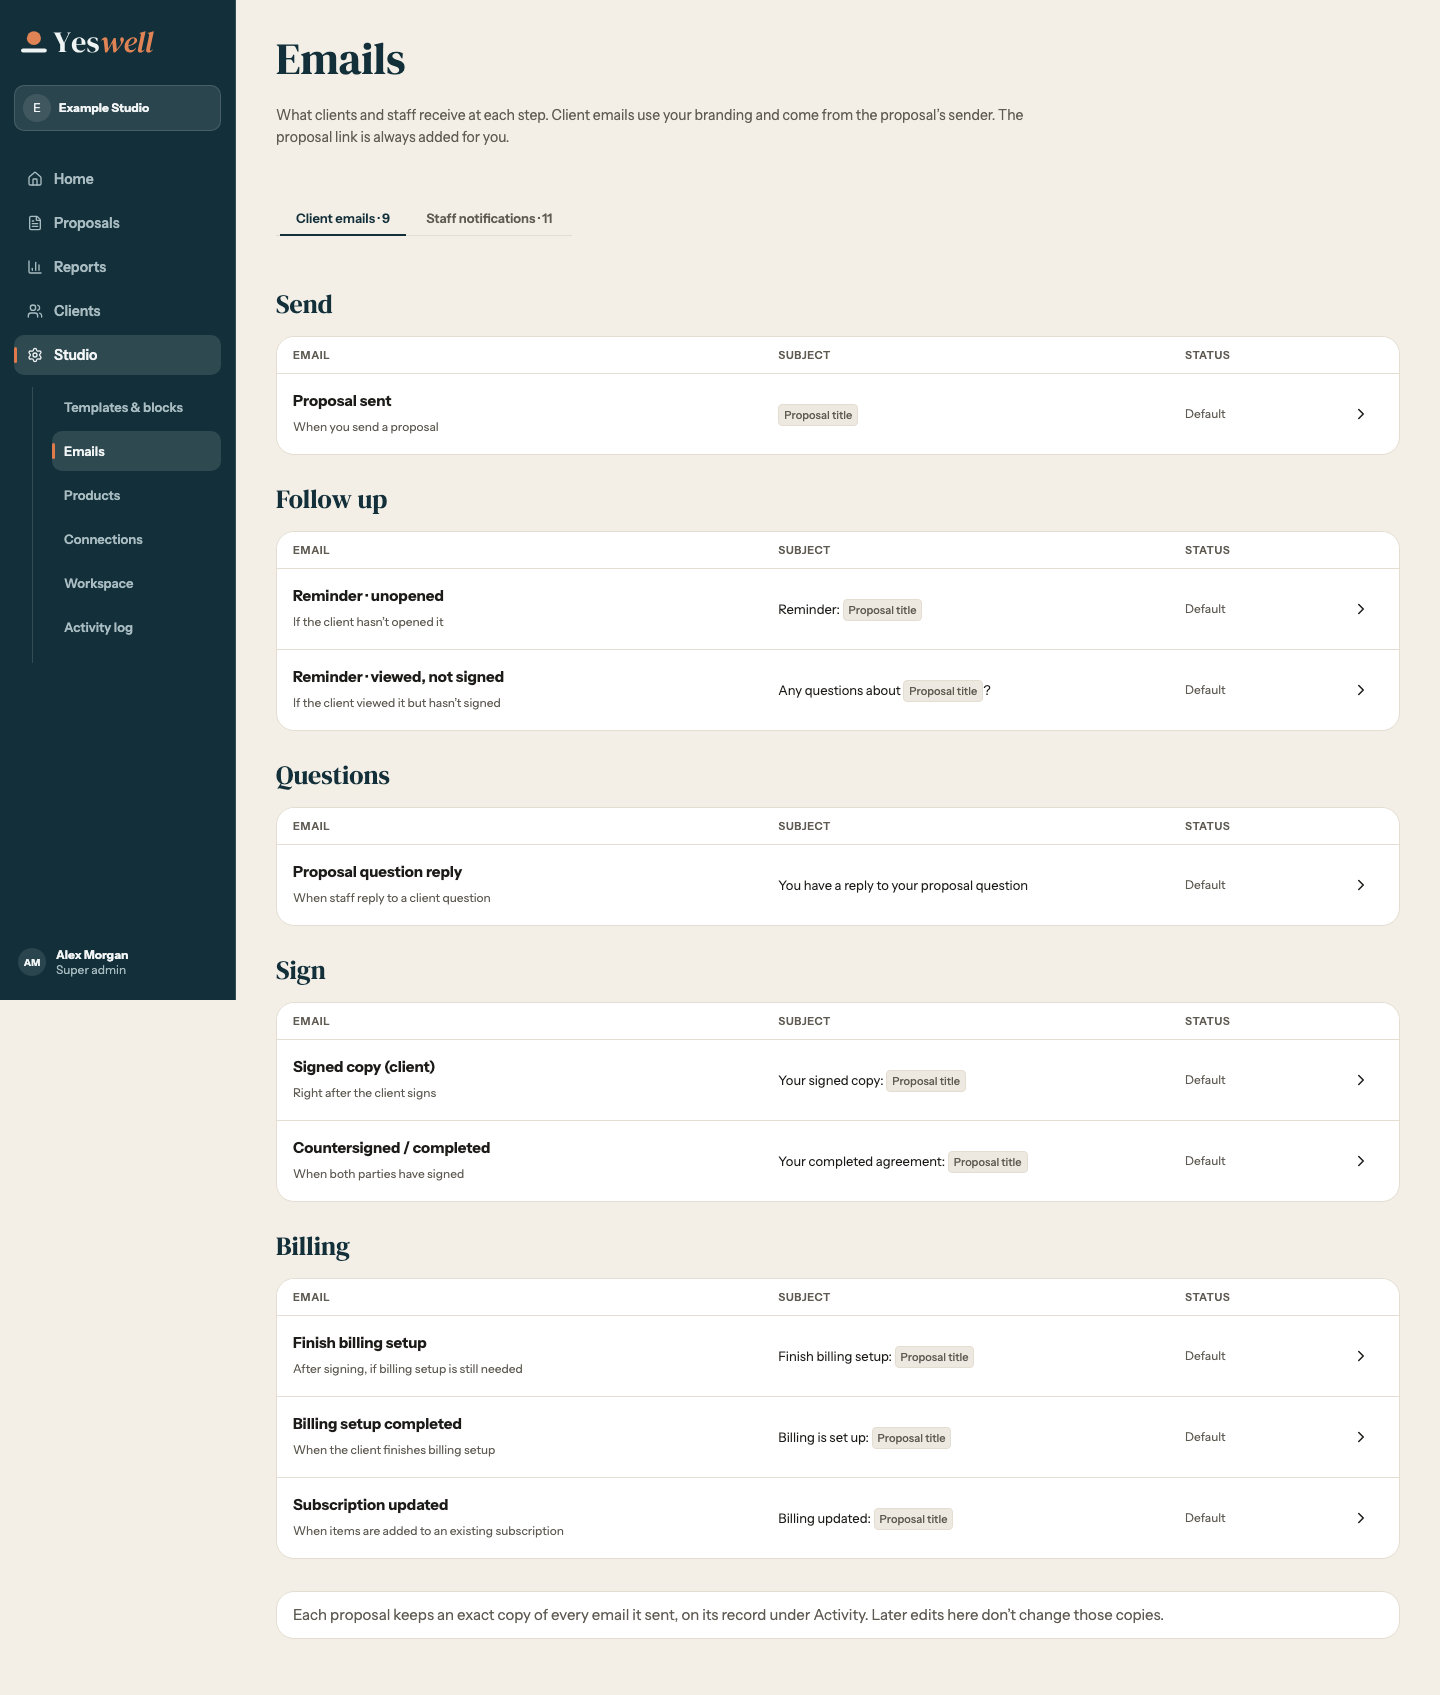
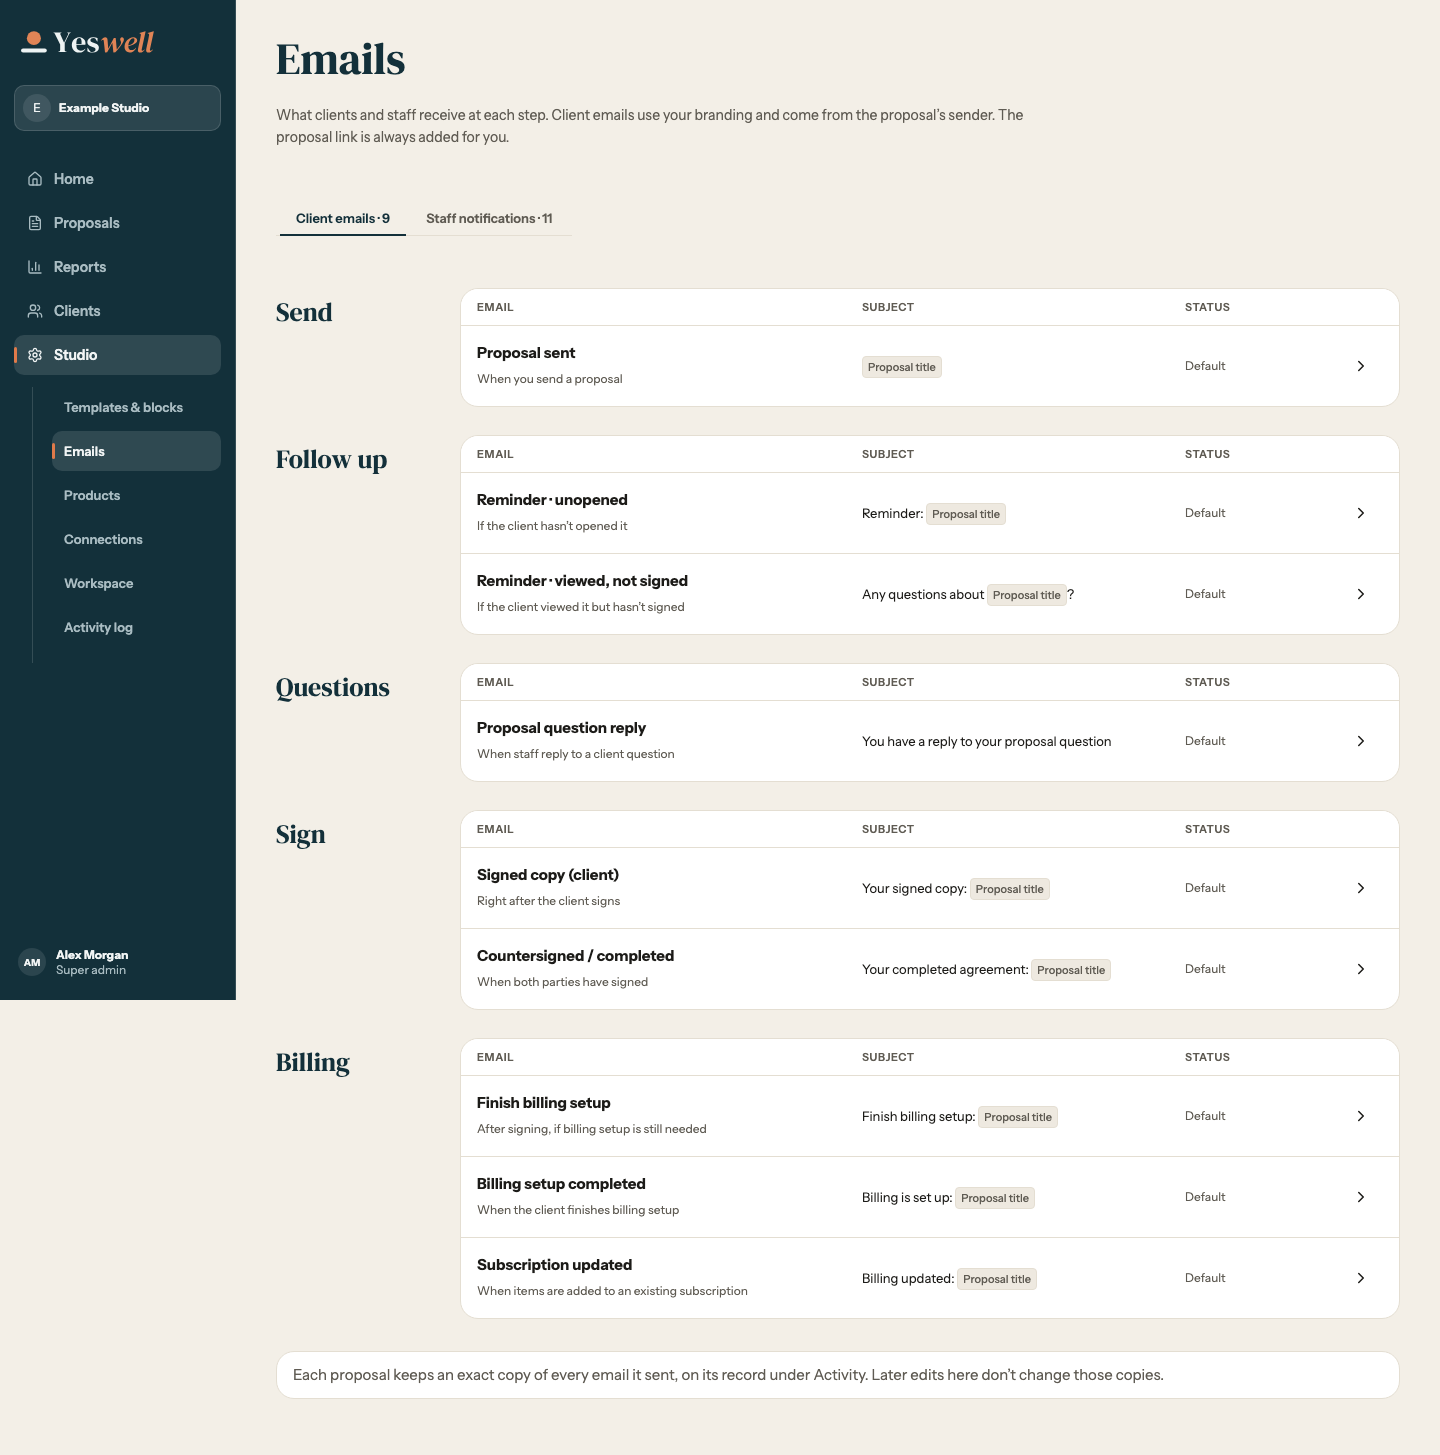
Keep email stage headings beside their tables on wide screens

diff --git a/e2e/studio-v3.spec.ts b/e2e/studio-v3.spec.ts
@@ -717,6 +717,17 @@ test("owner review Studio presentation keeps semantic statuses, controls and mob
   const title = await group.locator("h2").boundingBox(),
     card = await group.locator(".studio-email-rows").boundingBox();
   expect(title!.x + title!.width).toBeLessThan(card!.x);
+  await page.setViewportSize({ width: 768, height: 1000 });
+  const tabletTitle = (await group.locator("h2").boundingBox())!;
+  const tabletCard = (await group.locator(".studio-email-rows").boundingBox())!;
+  expect(tabletTitle.x + tabletTitle.width).toBeLessThan(tabletCard.x);
+
+  await page.setViewportSize({ width: 375, height: 900 });
+  const phoneTitle = (await group.locator("h2").boundingBox())!;
+  const phoneCard = (await group.locator(".studio-email-rows").boundingBox())!;
+  expect(phoneTitle.y + phoneTitle.height).toBeLessThan(phoneCard.y);
+  expect(phoneTitle.x).toBeCloseTo(phoneCard.x, 0);
+  await page.setViewportSize({ width: 1440, height: 1000 });
   await page.goto("/studio/workspace?view=brand");
   await expect(
     page.locator(".workspace-section-card > header [role=status]"),

diff --git a/src/app/staff-headings.css b/src/app/staff-headings.css
@@ -26,6 +26,19 @@
   text-decoration-color: var(--border-strong);
   text-underline-offset: 3px;
 }
+/* Email stages sit beside their tables when there is room for both. */
+@media (min-width: 700px) {
+  .ink-clay .studio-email-stage {
+    display: grid;
+    grid-template-columns: clamp(120px, 12vw, 168px) minmax(0, 1fr);
+    align-items: start;
+    gap: var(--space-4);
+  }
+  .ink-clay .studio-email-stage > .staff-section-heading {
+    margin-block-end: 0;
+    padding-block-start: var(--space-2);
+  }
+}
 @media (max-width: 699px) {
   .ink-clay .staff-section-heading h2 {
     font-size: 22px;

diff --git a/DECISIONS.md b/DECISIONS.md
@@ -1017,7 +1017,7 @@ New workspaces get three editable Sample templates with no preset prices: Websit
 
 ## Staff section headings — November 10, 2026
 
-Use Home's Redesign 19 frame 2b1 heading for sections on the staff page background, with the same type, spacing and optional right-aligned link. A card title keeps the Instrument Sans card style. Heading levels follow nesting: the page is H1, its sections are H2, subsections and cards under those sections are H3, and a titled group inside one of those cards is H4. A card directly under the page title uses H2 with the card style. Dialogs have an H2 title and H3 groups. The proposal canvas, public proposal, PDFs and rendered email previews keep their separate outlines.
+Use Home's Redesign 19 frame 2b1 heading for sections on the staff page background, with the same type, spacing and optional right-aligned link. A card title keeps the Instrument Sans card style. Heading levels follow nesting: the page is H1, its sections are H2, subsections and cards under those sections are H3, and a titled group inside one of those cards is H4. A card directly under the page title uses H2 with the card style. Dialogs have an H2 title and H3 groups. The proposal canvas, public proposal, PDFs and rendered email previews keep their separate outlines. Studio email group headings keep their label column beside the tables on desktop and tablet and sit above the tables on phone.
 
 ### Staff loading and table hover (Nov 9, 2026)
 

diff --git a/docs/screenshots/staff-section-headings/README.md b/docs/screenshots/staff-section-headings/README.md
@@ -23,4 +23,4 @@ The Home reference is Redesign 19 frame 2b1. Its serif section heading is shared
 | ---------------------- | ------------------------------------------- |
 | ![Home](home-1440.png) | ![Workspace Brand card](workspace-1440.png) |
 
-The same heading precedes the records in [Emails](emails-1440.png) (R19 2e5), the provider cards in [Connections](connections-1440.png) (R19 2e8), and the dates in [Activity log](activity-1440.png) (R19 2e14).
+The same heading sits beside the records in [Emails](emails-1440.png) (R19 2e5), the provider cards in [Connections](connections-1440.png) (R19 2e8), and the dates in [Activity log](activity-1440.png) (R19 2e14).
